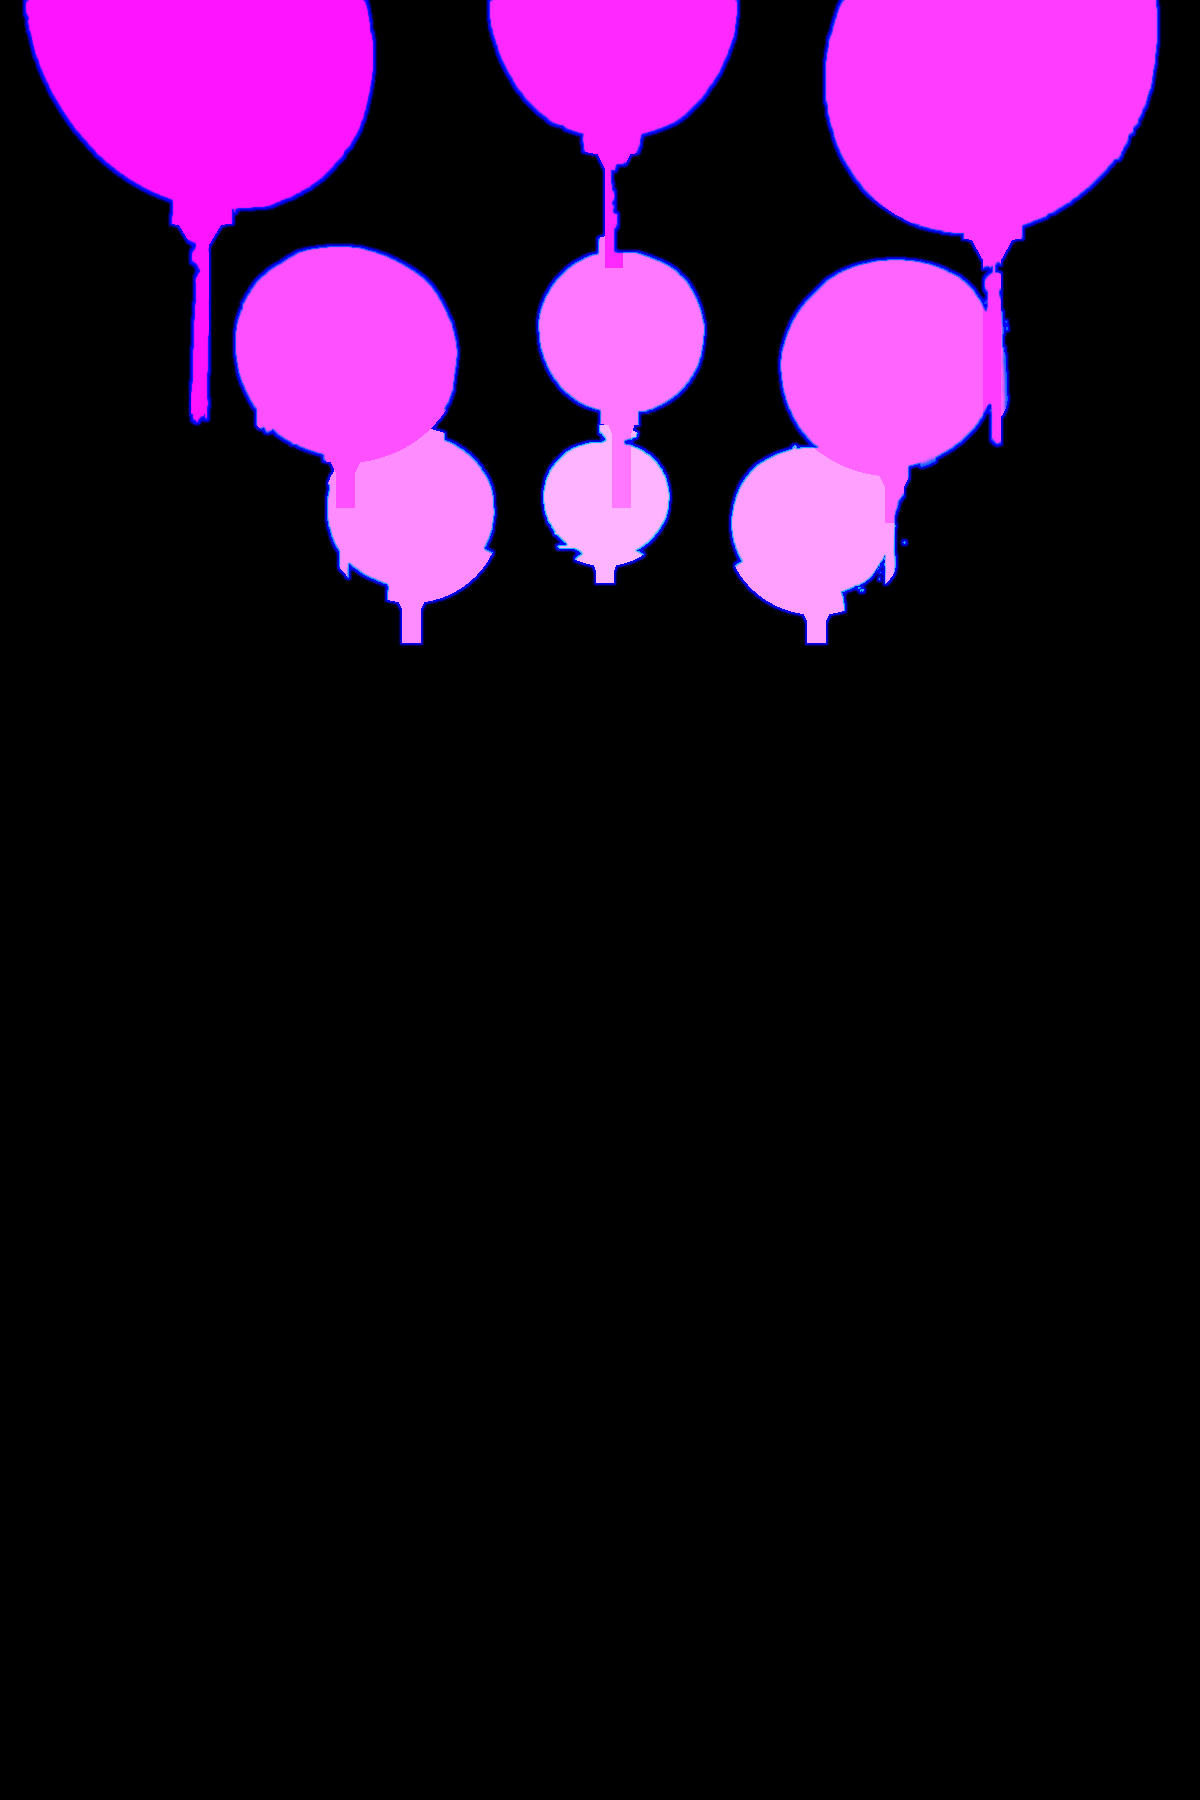
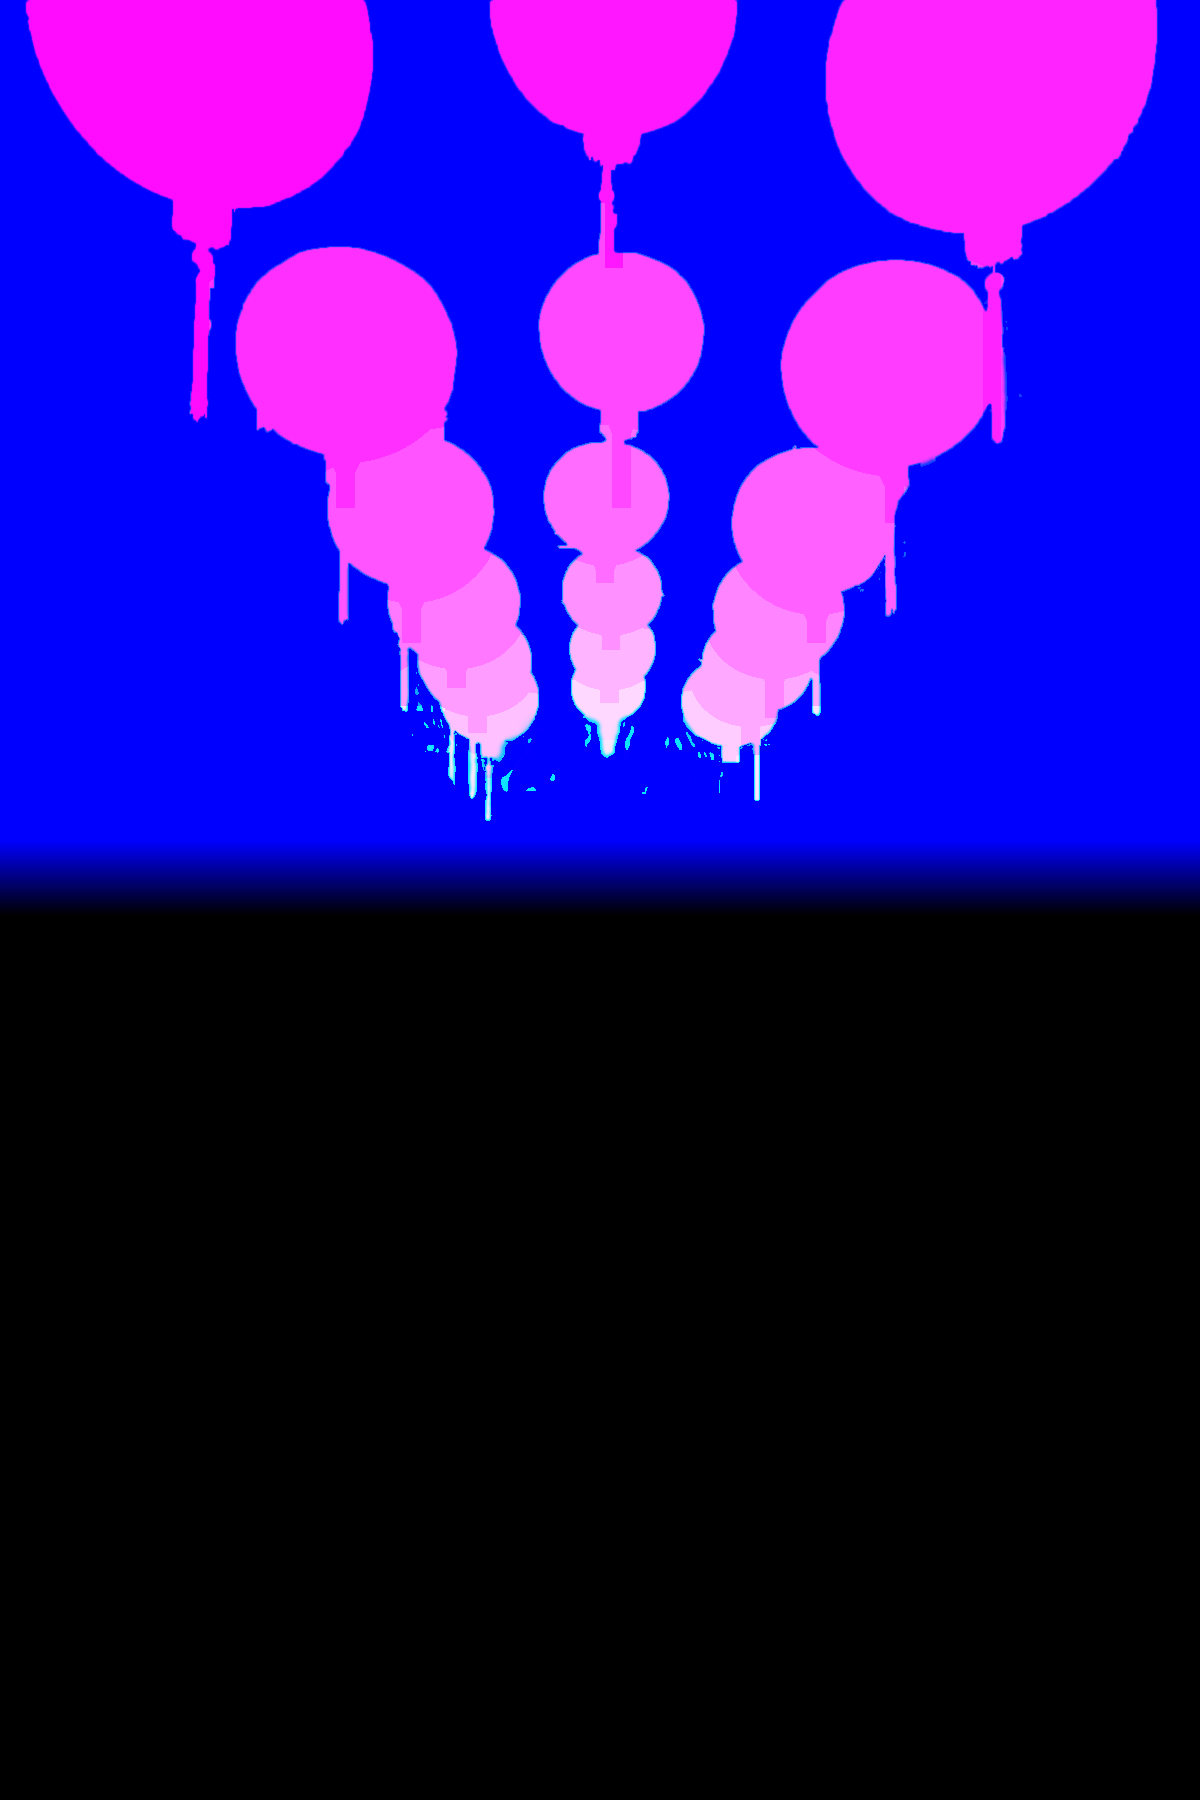
Hang every hero lantern under the Photoshop ceiling
The ceiling above the lanterns now comes from the Photoshop plate (every lantern removed, beams drawn in), so the lanterns hang under a real ceiling instead of a painted-in blur. Every marked lantern is a cut-out that swings, the tiny ones at the far end stay still, and stray fringe joins the nearest lantern. The in-place warp for the back lanterns is gone.

diff --git a/src/lib/cinemagraph.ts b/src/lib/cinemagraph.ts
@@ -1,56 +1,46 @@
 // The lantern corridor photograph as a cinemagraph: each lantern swings around the point it hangs
 // from, its paper keeps glowing, and the pointer is a lamp that lights the rest of the corridor.
-// The big front lanterns are cut out (their edges from a Photoshop cut, via scripts/cut-lanterns.py) and
-// swing over a copy of the photo with them painted out; the small ones at the back turn in place. Returns a stop function, or
-// null when WebGL2 is unavailable.
+// Every lantern is a cut-out (scripts/cut-lanterns.py, from a Photoshop cut) drawn over the ceiling with
+// the lanterns removed, so nothing behind them bends. Returns a stop function, or null when WebGL2 is
+// unavailable.
 import spec from '@/content/hero-lanterns.json';
 
 type Mark = readonly [cx: number, cy: number, rx: number, ry: number, lowest: number];
 
 const [IW, IH] = spec.size;
-const FRONT = spec.front as unknown as Mark[];
-const BACK = spec.back as unknown as Mark[];
-const NF = FRONT.length, NB = BACK.length, N = NF + NB;
-// size of /images/hero-cut-mask.png (scripts/cut-lanterns.py)
+const NF = spec.front.length;
+const MARKS = [...spec.front, ...spec.back] as unknown as Mark[];
+const N = MARKS.length;
+// /images/hero-cut-mask.png: its size, and the step its green channel counts lantern owners in;
+// owner N + 1 is the still layer of tiny lanterns at the far end. Must match scripts/cut-lanterns.py
 const MASK_SIZE = [1200, 1800] as const;
-// a cut-out lantern can swing further than one turned in place, whose surroundings bend past about 0.065 rad;
-// past about 0.09 the crescent of painted-in corridor it leaves behind starts to show
-const LIMIT = { front: 0.09, back: 0.065 };
+const ID_STEP = 12;
+// past about 0.09 rad the strip of drawn-in ceiling a lantern uncovers starts to show
+const LIMIT = 0.09;
 
 // image uv, y up: where the photo's focus sits on tall screens, and where its centre sits across wide ones
 const FOCUS = [0.5, 0.55] as const;
 const WIDE_CENTRE_X = 0.68;
 
-type Lantern = { angle: number; velocity: number; amp: number; omega: number; phase: number; limit: number };
+type Lantern = { angle: number; velocity: number; amp: number; omega: number; phase: number };
 
 function lanternGeometry() {
-  const front = new Float32Array(NF * 4), frontPiv = new Float32Array(NF * 2);
-  const ell = new Float32Array(NB * 4), piv = new Float32Array(NB * 2), body = new Float32Array(N * 4);
-  const lanterns: Lantern[] = [...FRONT, ...BACK].map(([cx, cy, rx, ry, low], i) => {
-    const cut = i < NF;
-    const top = cy - ry;
-    if (cut) {
-      front.set([cx, cy, rx, ry], i * 4);
-      frontPiv.set([cx, top - ry * 0.7], i * 2);
-    } else {
-      const j = i - NF;
-      const t = Math.max(0, top), bottom = Math.max(low, cy + ry);
-      ell.set([cx / IW, 1 - (t + bottom) / 2 / IH, (rx * 1.18) / IW, (((bottom - t) / 2) * 1.08) / IH], j * 4);
-      piv.set([cx / IW, 1 - (t - ry * 0.7) / IH], j * 2);
-    }
+  const marks = new Float32Array(N * 4), hangs = new Float32Array(N * 2), body = new Float32Array(N * 4);
+  const lanterns: Lantern[] = MARKS.map(([cx, cy, rx, ry], i) => {
+    marks.set([cx, cy, rx, ry], i * 4);
+    hangs.set([cx, cy - ry * 1.7], i * 2);
     body.set([cx / IW, 1 - cy / IH, rx / IW, ry / IH], i * 4);
     const depth = Math.min(1, Math.max(0, (cy - 30) / 450)); // 0 at the front, 1 at the back
     return {
       angle: 0,
       velocity: 0,
-      // the cut-out front lanterns carry most of the visible swing; the small ones at the back follow
-      amp: cut ? 1.5 : 0.42 + 0.58 * Math.pow(depth, 0.8),
+      // the big front lanterns carry most of the visible swing; the small ones at the back follow
+      amp: i < NF ? 1.5 : 0.55 + 0.75 * Math.pow(depth, 0.8),
       omega: 1.4 + depth * 2.1,
       phase: depth * 2.2 + (cx < 330 ? 0 : cx > 470 ? 0.5 : 0.25),
-      limit: cut ? LIMIT.front : LIMIT.back,
     };
   });
-  return { front, frontPiv, ell, piv, body, lanterns };
+  return { marks, hangs, body, lanterns };
 }
 
 const VS = `#version 300 es
@@ -59,15 +49,12 @@ void main() { uv = p * .5 + .5; gl_Position = vec4(p, 0., 1.); }`;
 
 const FS = `#version 300 es
 precision highp float;
-#define NF ${NF}
-#define NB ${NB}
 #define N ${N}
 in vec2 uv; out vec4 o;
 uniform sampler2D uTex, uPlate, uMask;
 uniform vec2 uRes, uImg, uMouse, uFocus;
 uniform float uTime;
-uniform vec4 uFront[NF]; uniform vec2 uFrontPiv[NF]; uniform float uFrontAng[NF];
-uniform vec4 uEll[NB]; uniform vec2 uPiv[NB]; uniform float uAng[NB];
+uniform vec4 uMark[N]; uniform vec2 uHang[N]; uniform float uAng[N];
 uniform vec4 uBody[N]; uniform float uGlow[N];
 const vec2 PX = vec2(${IW}., ${IH}.), MASK = vec2(${MASK_SIZE[0]}., ${MASK_SIZE[1]}.);
 // tall screens: cover. wide screens: the whole corridor as a tall picture right of centre,
@@ -84,9 +71,10 @@ vec2 place(vec2 q) {
 float lum(vec3 c) { return dot(c, vec3(.299, .587, .114)); }
 vec2 toPx(vec2 q) { return vec2(q.x, 1. - q.y) * PX; }
 vec2 toUv(vec2 p) { return vec2(p.x / PX.x, 1. - p.y / PX.y); }
-// how much of front lantern i is at p (pixels of the measured copy), read from the cut mask: red holds
-// the cut's opacity, green which lantern owns the pixel, blue where the plate takes over. Filtered by hand so lanterns never bleed together.
-float cut(vec2 p, int i) {
+float idOf(vec4 m) { return floor(m.g * 255. / ${ID_STEP}. + .5); }
+// how much of lantern id is at p (pixels of the measured copy): red holds the cut's opacity, green which
+// lantern owns the pixel. Filtered by hand so neighbouring lanterns never bleed into each other.
+float cut(vec2 p, float id) {
   vec2 t = toUv(p) * MASK - .5;
   vec2 f = fract(t);
   ivec2 b = ivec2(floor(t));
@@ -95,50 +83,34 @@ float cut(vec2 p, int i) {
     ivec2 o = ivec2(k & 1, k >> 1);
     vec4 m = texelFetch(uMask, clamp(b + o, ivec2(0), ivec2(MASK) - 1), 0);
     float w = (o.x == 1 ? f.x : 1. - f.x) * (o.y == 1 ? f.y : 1. - f.y);
-    a += w * m.r * step(abs(m.g * 255. / 20. - float(i + 1)), .5);
+    a += w * m.r * step(abs(idOf(m) - id), .5);
   }
   return a;
 }
-// where the painted-out corridor replaces the photo: the whole cut and a little more
-float cover(vec2 p) { return texture(uMask, toUv(p)).b; }
-// which lantern owns p in the photo: 1 for the nearest, 0 for none
-float ownerAt(vec2 p) { return floor(texelFetch(uMask, clamp(ivec2(toUv(p) * MASK), ivec2(0), ivec2(MASK) - 1), 0).g * 255. / 20. + .5); }
+vec4 maskAt(vec2 p) { return texelFetch(uMask, clamp(ivec2(toUv(p) * MASK), ivec2(0), ivec2(MASK) - 1), 0); }
 void main() {
   vec2 q = place(uv);
   float inside = smoothstep(0., .12, q.x) * smoothstep(0., .12, 1. - q.x);
+  vec2 p = toPx(q), sq = q;
 
-  // the small back lanterns turn in place, each with its tassel as one rigid piece
-  vec2 shift = vec2(0.); float wsum = 0.;
-  for (int i = 0; i < NB; i++) {
-    vec4 B = uBody[NF + i];
-    vec2 b = (q - B.xy) / B.zw;
-    float below = B.y - q.y, tail = B.y - (uEll[i].y - uEll[i].w);
-    float tassel = (1. - smoothstep(.3, .75, abs(q.x - B.x) / B.z)) * step(0., below) * (1. - smoothstep(tail, tail + B.w * .3, below));
-    float w = max(1. - smoothstep(1., 1.5, length(b)), tassel);
-    if (w <= 0.) continue;
-    vec2 r = (q - uPiv[i]) * uImg;
-    float c = cos(-uAng[i]), s = sin(-uAng[i]);
-    vec2 src = vec2(c * r.x - s * r.y, s * r.x + c * r.y) / uImg + uPiv[i];
-    shift += w * (src - q); wsum += w;
-  }
-  if (wsum > 1.) shift /= wsum;
-  vec2 sq = q + shift;
-  vec3 c = texture(uTex, sq).rgb;
-
-  // where the front lanterns hang, the corridor behind them; then each lantern, back to front, at its swing
-  vec2 p = toPx(q);
-  c = mix(c, texture(uPlate, q).rgb, cover(p));
-  for (int i = NF - 1; i >= 0; i--) {
-    vec2 r = p - uFrontPiv[i];
-    float cs = cos(-uFrontAng[i]), sn = sin(-uFrontAng[i]);
-    vec2 src = vec2(cs * r.x - sn * r.y, sn * r.x + cs * r.y) + uFrontPiv[i];
-    float a = cut(src, i);
+  // the ceiling without its lanterns (blue: where it takes over from the photo), the still far lanterns,
+  // then every lantern from the back of the corridor to the front, each at its own swing
+  vec3 c = mix(texture(uTex, q).rgb, texture(uPlate, q).rgb, texture(uMask, q).b);
+  c = mix(c, texture(uTex, q).rgb, cut(p, float(N + 1)));
+  for (int i = N - 1; i >= 0; i--) {
+    vec2 r = p - uHang[i];
+    float cs = cos(-uAng[i]), sn = sin(-uAng[i]);
+    vec2 src = vec2(cs * r.x - sn * r.y, sn * r.x + cs * r.y) + uHang[i];
+    float id = float(i + 1);
+    float a = cut(src, id);
     // a nearer lantern hid part of this one in the photo; that part is the mirror of its other side
-    float owner = ownerAt(src);
-    if (owner > 0. && owner < float(i + 1)) {
-      vec2 m = vec2(2. * uFront[i].x - src.x, src.y);
-      float am = cut(m, i);
+    float owner = idOf(maskAt(src));
+    if (owner > 0. && owner < id) {
+      vec2 m = vec2(2. * uMark[i].x - src.x, src.y);
+      float am = cut(m, id);
       if (am > a) { a = am; src = m; }
+      // where the mirror is hidden too, keep the photo there inside the outline: it is lantern paper either way
+      else a = max(a, 1. - smoothstep(.9, 1., length((src - uMark[i].xy) / uMark[i].zw)));
     }
     if (a <= 0.) continue;
     vec2 su = toUv(src);
@@ -238,16 +210,14 @@ export function startCinemagraph(opts: { host: HTMLElement; canvas: HTMLCanvasEl
   gl.useProgram(program);
 
   const reduce = matchMedia('(prefers-reduced-motion: reduce)').matches;
-  const { front, frontPiv, ell, piv, body, lanterns } = lanternGeometry();
+  const { marks, hangs, body, lanterns } = lanternGeometry();
   const U = (name: string) => gl.getUniformLocation(program, name);
-  const u = { res: U('uRes'), img: U('uImg'), mouse: U('uMouse'), focus: U('uFocus'), time: U('uTime'), ang: U('uAng'), frontAng: U('uFrontAng'), glow: U('uGlow') };
+  const u = { res: U('uRes'), img: U('uImg'), mouse: U('uMouse'), focus: U('uFocus'), time: U('uTime'), ang: U('uAng'), glow: U('uGlow') };
   gl.uniform1i(U('uTex'), 0);
   gl.uniform1i(U('uPlate'), 1);
   gl.uniform1i(U('uMask'), 2);
-  gl.uniform4fv(U('uFront'), front);
-  gl.uniform2fv(U('uFrontPiv'), frontPiv);
-  gl.uniform4fv(U('uEll'), ell);
-  gl.uniform2fv(U('uPiv'), piv);
+  gl.uniform4fv(U('uMark'), marks);
+  gl.uniform2fv(U('uHang'), hangs);
   gl.uniform4fv(U('uBody'), body);
   gl.bindBuffer(gl.ARRAY_BUFFER, gl.createBuffer());
   gl.bufferData(gl.ARRAY_BUFFER, new Float32Array([-1, -1, 3, -1, -1, 3]), gl.STATIC_DRAW);
@@ -294,7 +264,7 @@ export function startCinemagraph(opts: { host: HTMLElement; canvas: HTMLCanvasEl
       // a breeze that travels down the corridor, so neighbours move together
       const breeze = reduce ? 0 : 0.042 * Math.sin(t * 0.9 - l.phase) + 0.016 * Math.sin(t * 2.1 - l.phase * 1.7);
       l.velocity += (-l.omega * l.omega * (l.angle - breeze * l.amp) - 1.6 * l.velocity) * dt;
-      l.angle = Math.max(-l.limit, Math.min(l.limit, l.angle + l.velocity * dt));
+      l.angle = Math.max(-LIMIT, Math.min(LIMIT, l.angle + l.velocity * dt));
       angles[i] = l.angle;
       glows[i] = reduce ? 0.6 : 0.58 + 0.1 * Math.sin(t * 1.1 + i * 1.7) + 0.04 * Math.sin(t * 2.3 + i * 2.9);
     });
@@ -305,8 +275,7 @@ export function startCinemagraph(opts: { host: HTMLElement; canvas: HTMLCanvasEl
     gl.uniform2fv(u.focus, FOCUS);
     gl.uniform2f(u.mouse, lamp.x, lamp.y);
     gl.uniform1f(u.time, t);
-    gl.uniform1fv(u.frontAng, angles.subarray(0, NF));
-    gl.uniform1fv(u.ang, angles.subarray(NF));
+    gl.uniform1fv(u.ang, angles);
     gl.uniform1fv(u.glow, glows);
     gl.drawArrays(gl.TRIANGLES, 0, 3);
   };

diff --git a/scripts/cut-lanterns.py b/scripts/cut-lanterns.py
@@ -1,72 +1,66 @@
-# Prepares the hero cinemagraph's cut-out lanterns from scripts/assets/hero-lanterns-cut.png (the nine
-# front lanterns cut from the photo in Photoshop, transparent elsewhere). Writes:
-#   public/images/hero-cut-mask.png  R: how opaque the cut is, G: which lantern owns the pixel (1..9, x20),
-#                                    B: where the plate replaces the photo
-#   public/images/hero-plate.jpg     the photo with the cut lanterns painted out
-# Only a thin crescent of the plate ever shows, beside a lantern that has swung away, so it is filled
-# outward from the glow right around each lantern rather than redrawn.
+# Prepares the hero cinemagraph from two Photoshop files in scripts/assets:
+#   hero-lanterns-cut.png  every lantern cut from the photo, transparent elsewhere, same size as the photo
+#   hero-plate.jpg         the photo with every lantern removed and the ceiling behind them drawn in
+# and writes:
+#   public/images/hero-plate.jpg     the Photoshop plate at the size the shader reads it
+#   public/images/hero-cut-mask.png  R: how opaque the cut is, G: which lantern owns the pixel (x12),
+#                                    B: where the plate replaces the photo (the ceiling, down past the
+#                                    lowest lantern)
+# Lanterns marked in src/content/hero-lanterns.json swing; any other cut pixel (the tiny lanterns at the
+# far end of the corridor) belongs to one still layer.
 #   python scripts/cut-lanterns.py            write both files
 #   python scripts/cut-lanterns.py --preview  also write scripts/.cache/plate-preview.png
 import json, sys
 from pathlib import Path
 import numpy as np
-from PIL import Image, ImageFilter
+from PIL import Image
 
 ROOT = Path(__file__).resolve().parent.parent
 spec = json.loads((ROOT / 'src/content/hero-lanterns.json').read_text())
 SW, SH = spec['size']  # the lantern outlines are measured at this size
 OUT_W, OUT_H = 1200, 1800
+MARKS = spec['front'] + spec['back']
+STILL = len(MARKS) + 1  # owner id of the still layer
+ID_STEP = 12  # owner ids are stored as id * ID_STEP; must match cinemagraph.ts
+# the plate takes over above this line (in measured pixels), fading into the photo over FADE below it
+PLATE_TO, FADE = 560, 50
+# cut pixels below this line that no marked lantern reaches are the tiny far lanterns, which stay still
+STILL_FROM = 470
 
 
 def region(cx, cy, rx, ry, low, yy, xx):
-    # the reach of one front lantern: its paper and a narrow strip for the tassel. The cut also holds the
-    # small lanterns at the back, which turn in place instead, so anything outside every reach is dropped
+    # the reach of one lantern: its paper and a narrow strip for the tassel
     body = np.hypot((xx - cx) / (rx * 1.05 + 3), (yy - cy) / (ry * 1.05 + 3)) <= 1
     below = yy - (cy + ry * 0.7)
     half = np.interp(np.clip(below / (ry * 0.5), 0, 1), [0, 1], [rx * 0.3, 4]) + 2
     return body | ((below >= 0) & (yy <= low + 8) & (np.abs(xx - cx) <= half))
 
 
-def fill(rgb, hole):
-    # onion peel: each ring of the hole takes the average of its already-known neighbours, so the strip a
-    # swinging lantern uncovers carries the glow right beside it rather than a wider, darker average
-    rgb, known = rgb.copy(), ~hole
-    while not known.all():
-        acc = np.zeros_like(rgb); n = np.zeros(known.shape, np.float32)
-        for dy in (-1, 0, 1):
-            for dx in (-1, 0, 1):
-                k = np.roll(known, (dy, dx), (0, 1)); acc += np.roll(rgb, (dy, dx), (0, 1)) * k[..., None]; n += k
-        ring = ~known & (n > 0)
-        rgb[ring] = acc[ring] / n[ring, None]
-        known = known | ring
-    return rgb
-
-
-photo = Image.open(ROOT / 'public/images/hero-lanterns.jpg').convert('RGB').resize((OUT_W, OUT_H), Image.LANCZOS)
 cut = Image.open(ROOT / 'scripts/assets/hero-lanterns-cut.png').resize((OUT_W, OUT_H), Image.LANCZOS)
 alpha = np.asarray(cut)[..., 3].astype(np.float32) / 255
+plate = Image.open(ROOT / 'scripts/assets/hero-plate.jpg').convert('RGB').resize((OUT_W, OUT_H), Image.LANCZOS)
+plate.save(ROOT / 'public/images/hero-plate.jpg', quality=88)
 
 k = OUT_W / SW
 yy, xx = np.mgrid[0:OUT_H, 0:OUT_W].astype(np.float32) / k
 owner = np.zeros((OUT_H, OUT_W), np.uint8)
-for i, (cx, cy, rx, ry, low) in enumerate(spec['front']):
+for i, mark in enumerate(MARKS):
     # nearest lanterns are listed first, so a pixel two lanterns could claim goes to the nearer one
-    owner[(owner == 0) & region(cx, cy, rx, ry, low, yy, xx)] = i + 1
-alpha = alpha * (owner > 0)
+    owner[(owner == 0) & region(*mark, yy, xx)] = i + 1
+# stray bits of fringe outside every reach join the nearest lantern; only the far end of the corridor,
+# below the marked lanterns, is left still
+near = np.argmin(np.stack([np.hypot((xx - cx) / rx, (yy - cy) / ry) for cx, cy, rx, ry, _ in MARKS]), 0) + 1
+owner = np.where(owner > 0, owner, np.where(yy > STILL_FROM, STILL, near)).astype(np.uint8)
 owner = owner * (alpha > 0.02)
-hole = np.asarray(Image.fromarray((alpha > 0.02).astype(np.uint8) * 255).filter(ImageFilter.MaxFilter(5))) > 0
-rgb = np.asarray(photo).astype(np.float32)
-plate = np.where(hole[..., None], fill(rgb, hole), rgb).clip(0, 255).astype(np.uint8)
-Image.fromarray(plate).save(ROOT / 'public/images/hero-plate.jpg', quality=85)
-# blue: where the plate replaces the photo outright, a little wider than the cut, so no trace of a
-# lantern's soft edge stays behind when it swings away
-cover = np.asarray(Image.fromarray(hole.astype(np.uint8) * 255).filter(ImageFilter.GaussianBlur(1)), np.float32)
-mask = np.stack([np.round(alpha * 255), owner * 20.0, cover], -1).astype(np.uint8)
+
+cover = np.clip((PLATE_TO + FADE - yy) / FADE, 0, 1) * 255
+mask = np.stack([np.round(alpha * 255), owner * float(ID_STEP), cover], -1).astype(np.uint8)
 Image.fromarray(mask).save(ROOT / 'public/images/hero-cut-mask.png', optimize=True)
-print(f'mask and plate {OUT_W}x{OUT_H}; the front lanterns cover {(alpha > 0.5).mean():.1%} of the frame')
+print(f'mask and plate {OUT_W}x{OUT_H}; {len(MARKS)} swinging lanterns, still layer {(owner == STILL).mean():.1%} of the frame')
 
 if '--preview' in sys.argv:
-    hues = np.array([[0, 0, 0]] + [[(i * 97) % 256, (i * 57 + 120) % 256, (i * 151 + 60) % 256] for i in range(1, 10)], np.uint8)
-    ids = (hues[owner] * 0.6 + np.asarray(photo) * 0.4).astype(np.uint8)
+    hues = np.array([[0, 0, 0]] + [[(i * 97) % 256, (i * 57 + 120) % 256, (i * 151 + 60) % 256] for i in range(1, STILL)] + [[255, 255, 255]], np.uint8)
+    photo = np.asarray(Image.open(ROOT / 'public/images/hero-lanterns.jpg').convert('RGB').resize((OUT_W, OUT_H)))
+    ids = (hues[owner] * 0.6 + photo * 0.4).astype(np.uint8)
     (ROOT / 'scripts/.cache').mkdir(exist_ok=True)
-    Image.fromarray(np.concatenate([ids, plate], 1)).save(ROOT / 'scripts/.cache/plate-preview.png')
+    Image.fromarray(np.concatenate([ids, np.asarray(plate)], 1)).save(ROOT / 'scripts/.cache/plate-preview.png')

diff --git a/README.md b/README.md
@@ -41,7 +41,7 @@ video, and the ideas that make the site stand out.
 
 ## Hero lanterns
 
-The nine big front lanterns in the hero photo are cut out and swing over `public/images/hero-plate.jpg`, the same photo with them painted out. Their edges come from `scripts/assets/hero-lanterns-cut.png` (cut in Photoshop, transparent elsewhere, same size as the photo); `src/content/hero-lanterns.json` holds each lantern's centre and size, which set where it hangs from and which lantern owns each cut pixel. After changing the cut, an outline or the photo, rebuild the mask and plate (needs Python with numpy and Pillow):
+Every lantern in the hero photo is a cut-out swinging over the ceiling with the lanterns removed. Both come from Photoshop, in `scripts/assets`: `hero-lanterns-cut.png` (every lantern, transparent elsewhere, same size as the photo) and `hero-plate.jpg` (the photo with the lanterns removed and the ceiling drawn in). `src/content/hero-lanterns.json` holds each lantern's centre and size, which set where it hangs from and which lantern owns each cut pixel. After changing either file or an outline, rebuild `public/images/hero-cut-mask.png` and `public/images/hero-plate.jpg` (needs Python with numpy and Pillow):
 
 ```bash
 python scripts/cut-lanterns.py --preview
